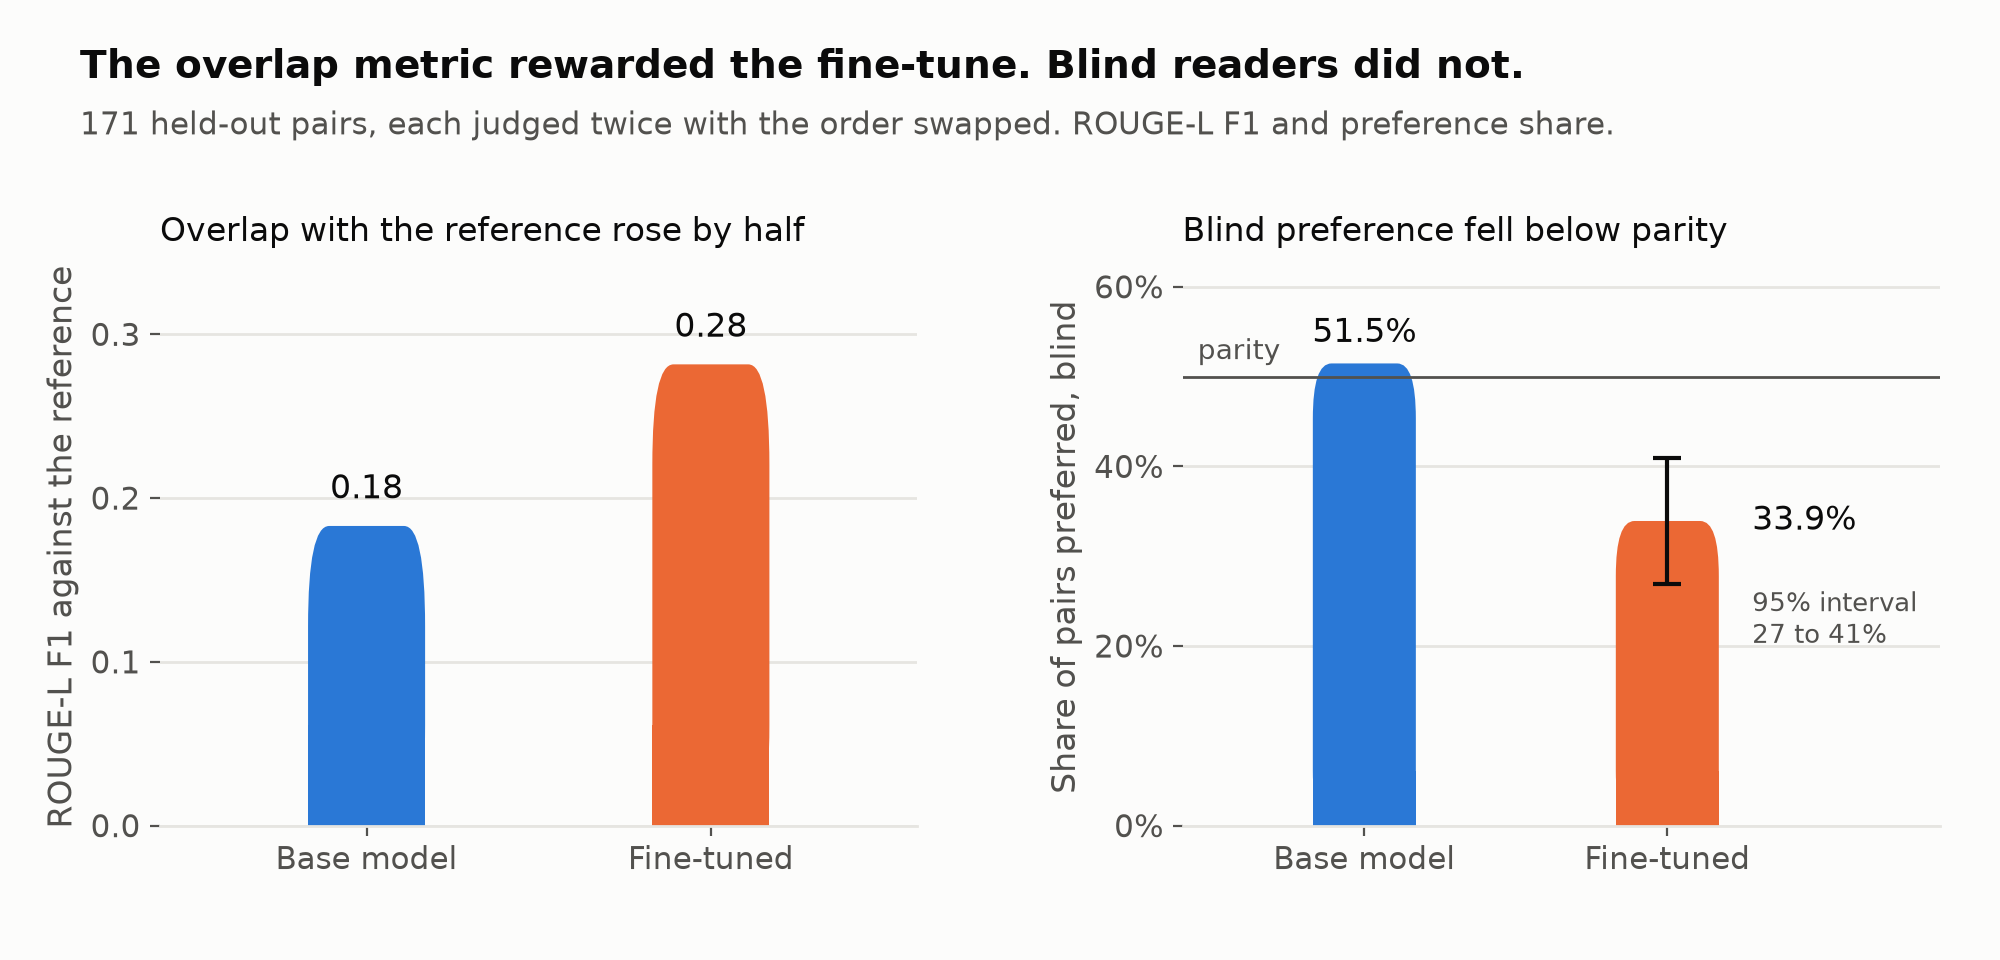
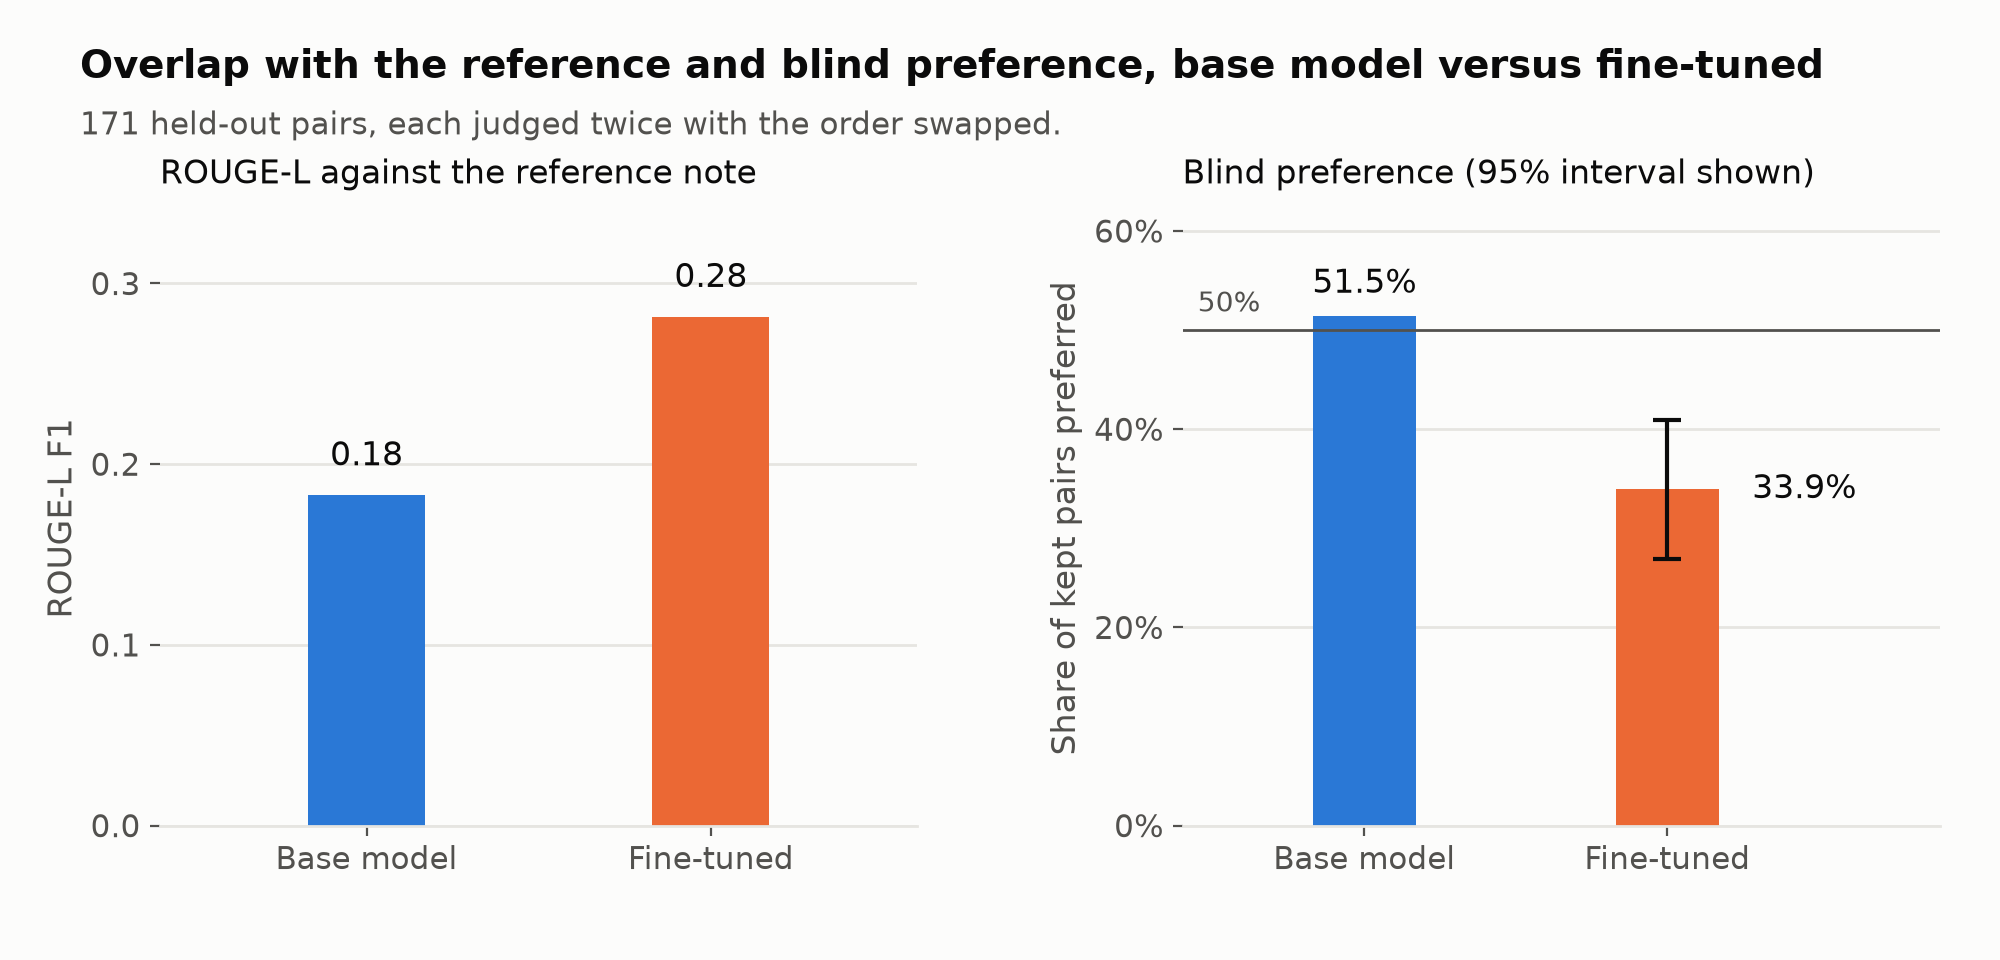
figures: neutral titles, square bars, insight text moved to captions

diff --git a/tools/make_figures.py b/tools/make_figures.py
@@ -70,38 +70,36 @@ def title(fig, claim, sub):
 
 
 # ----------------------------------------------------------------------------
-# Figure 1: ROUGE up, preference down
+# Figure 1: ROUGE-L and blind preference, base vs tuned
 # ----------------------------------------------------------------------------
 
 fig, axes = plt.subplots(1, 2, figsize=(10, 4.8), dpi=200)
-fig.subplots_adjust(top=0.72, bottom=0.14, left=0.08, right=0.97, wspace=0.35)
+fig.subplots_adjust(top=0.78, bottom=0.14, left=0.08, right=0.97, wspace=0.35)
 r = m["rates"]; lo, hi = m["win_rate_ci"]
 W = 0.34
 
 ax = axes[0]
-for i, (v, c) in enumerate([(m["rouge_l"]["base"], BASE), (m["rouge_l"]["tuned"], TUNED)]):
-    rounded_bar(ax, i, v, W, c)
+ax.bar([0, 1], [m["rouge_l"]["base"], m["rouge_l"]["tuned"]], width=W, color=[BASE, TUNED])
+for i, v in enumerate([m["rouge_l"]["base"], m["rouge_l"]["tuned"]]):
     ax.text(i, v + 0.012, f"{v:.2f}", ha="center", va="bottom", color=INK, fontsize=12)
 ax.set_xlim(-0.6, 1.6); ax.set_ylim(0, 0.34)
 ax.set_xticks([0, 1], ["Base model", "Fine-tuned"]); ax.set_yticks([0, 0.1, 0.2, 0.3])
-ax.set_ylabel("ROUGE-L F1 against the reference")
-ax.set_title("Overlap with the reference rose by half", loc="left", fontsize=12, color=INK, pad=10)
+ax.set_ylabel("ROUGE-L F1")
+ax.set_title("ROUGE-L against the reference note", loc="left", fontsize=12, color=INK, pad=10)
 
 ax = axes[1]
-for i, (v, c) in enumerate([(r["base"], BASE), (r["tuned"], TUNED)]):
-    rounded_bar(ax, i, v, W, c)
+ax.bar([0, 1], [r["base"], r["tuned"]], width=W, color=[BASE, TUNED])
 ax.errorbar([1], [r["tuned"]], yerr=[[r["tuned"] - lo], [hi - r["tuned"]]], fmt="none", ecolor=INK, elinewidth=1.5, capsize=5, capthick=1.5)
 ax.text(0, r["base"] + 0.015, f"{r['base']*100:.1f}%", ha="center", va="bottom", color=INK, fontsize=12)
 ax.text(1.28, r["tuned"], f"{r['tuned']*100:.1f}%", ha="left", va="center", color=INK, fontsize=12)
-ax.text(1.28, lo - 0.005, f"95% interval\n{lo*100:.0f} to {hi*100:.0f}%", ha="left", va="top", color=INK2, fontsize=9.5)
-ax.axhline(0.5, color=INK2, lw=1); ax.text(-0.55, 0.512, "parity", color=INK2, fontsize=10, va="bottom")
+ax.axhline(0.5, color=INK2, lw=1); ax.text(-0.55, 0.512, "50%", color=INK2, fontsize=10, va="bottom")
 ax.set_xlim(-0.6, 1.9); ax.set_ylim(0, 0.62)
 ax.set_xticks([0, 1], ["Base model", "Fine-tuned"]); ax.set_yticks([0, 0.2, 0.4, 0.6], ["0%", "20%", "40%", "60%"])
-ax.set_ylabel("Share of pairs preferred, blind")
-ax.set_title("Blind preference fell below parity", loc="left", fontsize=12, color=INK, pad=10)
+ax.set_ylabel("Share of kept pairs preferred")
+ax.set_title("Blind preference (95% interval shown)", loc="left", fontsize=12, color=INK, pad=10)
 
-title(fig, "The overlap metric rewarded the fine-tune. Blind readers did not.",
-      "171 held-out pairs, each judged twice with the order swapped. ROUGE-L F1 and preference share.")
+title(fig, "Overlap with the reference and blind preference, base model versus fine-tuned",
+      "171 held-out pairs, each judged twice with the order swapped.")
 fig.savefig(OUT / "fig1_rouge_vs_preference.png"); plt.close(fig)
 
 # ----------------------------------------------------------------------------
@@ -120,11 +118,11 @@ ax.text(302, ev[-1][1], f"{ev[-1][1]:.2f}", color=INK, va="center", ha="left", f
 ax.text(302, tr[-1][1], f"{tr[-1][1]:.2f}", color=INK2, va="center", ha="left", fontsize=11)
 ax.axvline(150, color=GRID, lw=1, zorder=1); ax.text(152, 1.86, "epoch 2", color=MUTED, fontsize=10)
 ax.set_xlim(15, 330); ax.set_ylim(1.2, 1.9); ax.set_yticks([1.2, 1.4, 1.6, 1.8])
-ax.set_xlabel("training step (300 steps, 15 minutes on a free T4)")
+ax.set_xlabel("training step")
 ax.set_ylabel("cross-entropy loss")
 ax.legend(frameon=False, loc="lower left", fontsize=11)
-title(fig, "Validation loss fell from 1.62 to 1.38 and flattened.",
-      "No overfitting. The curve measured how well the model predicts the reference notes, not whether the notes were true.")
+title(fig, "Training and validation loss over 300 steps",
+      "QLoRA on Qwen2.5-1.5B-Instruct, 1,200 training pairs, validation on 98 held-back pairs, one free T4.")
 fig.savefig(OUT / "fig2_loss_curve.png"); plt.close(fig)
 
 # ----------------------------------------------------------------------------
@@ -146,8 +144,8 @@ for y, k, lab in zip(ys, order, labels):
 ax.set_yticks(ys, labels); ax.tick_params(axis="y", length=0)
 ax.set_xlim(0, 48); ax.set_ylim(-0.7, len(order) - 0.3); ax.set_xticks([0, 10, 20, 30, 40])
 ax.set_xlabel("pairs the fine-tuned model lost, 88 in total")
-title(fig, "Why it lost: 41 of 88 losses were an invented fact.",
-      "Every kept pair the base model won, read and labelled with its dominant failure.")
+title(fig, "Dominant failure in the 88 pairs the fine-tuned model lost",
+      "One label per pair, assigned by reading the conversation and both notes.")
 fig.savefig(OUT / "fig3_taxonomy.png"); plt.close(fig)
 
 # ----------------------------------------------------------------------------
